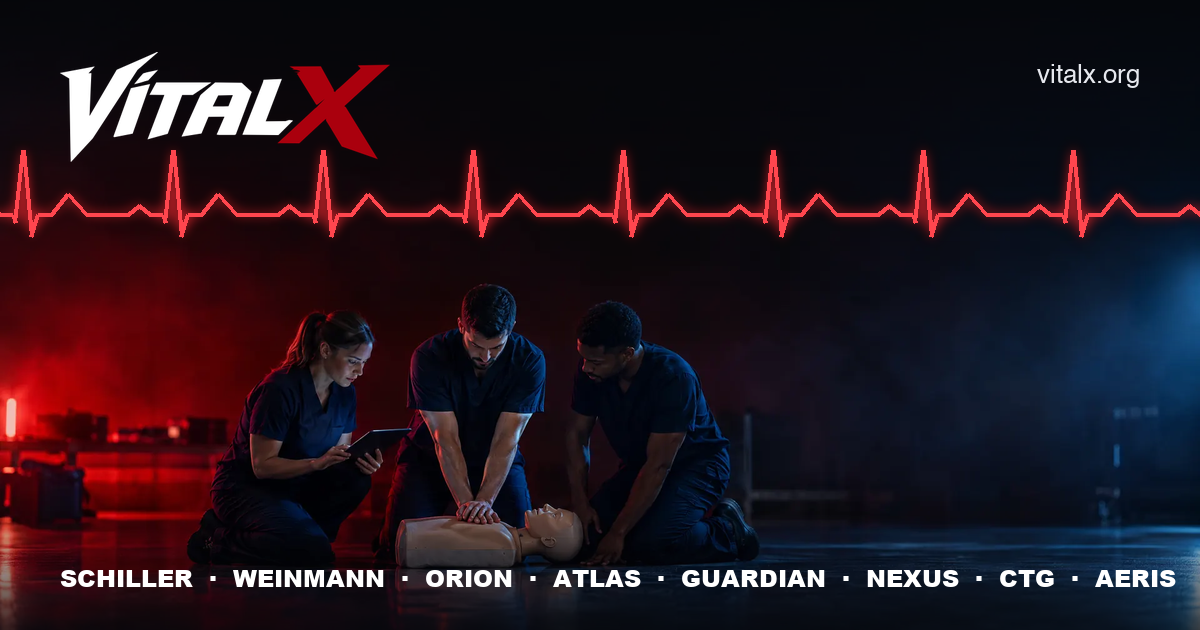
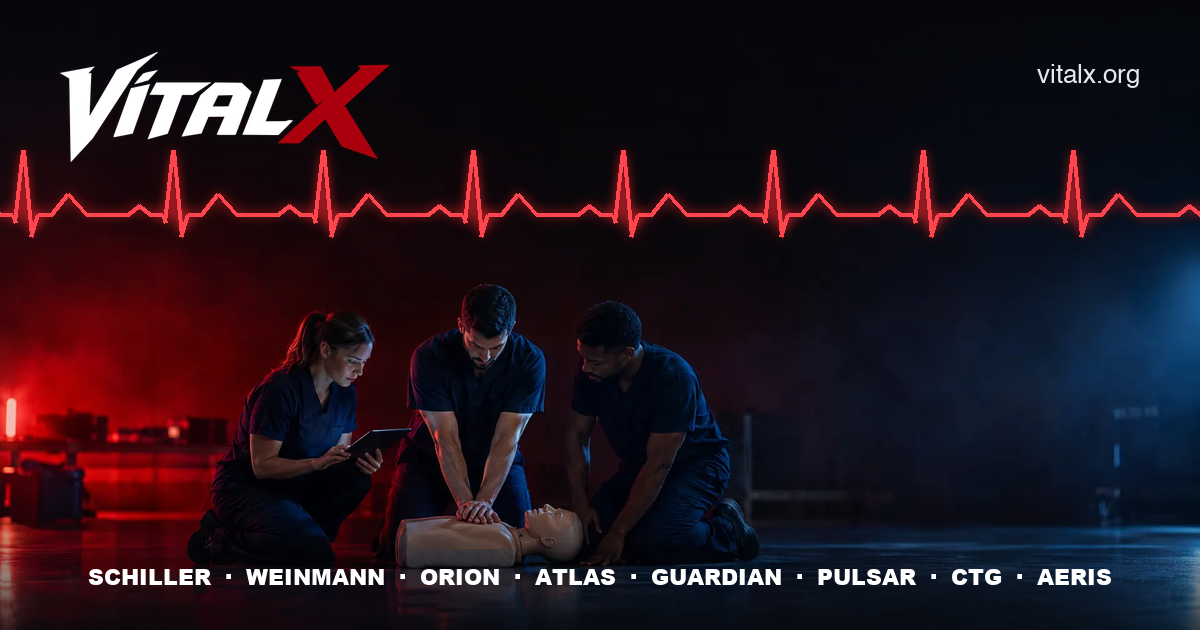
NEXUS retiré : 6 écrans VitalX (accueil, simulateurs, contact, CGV FR + image de partage)

Changed region(s): [[0.0308, 0.9048, 0.9867, 0.9349]]

diff --git a/site/index.html b/site/index.html
@@ -68,7 +68,7 @@
 </div>
 <figure class="hero-prod"><img src="/assets/img/hero-ultra-1200.webp" srcset="/assets/img/hero-ultra-800.webp 800w, /assets/img/hero-ultra-1200.webp 1200w, /assets/img/hero-ultra-1536.webp 1536w" sizes="(min-width:1024px) min(58vw, 860px), 100vw" width="1536" height="1024" alt="Pack VitalX Ultra — moniteur iPad Air 13 pouces dans sa housse et tablette formateur" fetchpriority="high" decoding="async"></figure>
 </div>
-</section><div class="mq" aria-hidden="true"><div class="mq-track"><ul><li>SCHILLER</li><li class=o>WEINMANN</li><li>ORION</li><li class=o>ATLAS</li><li>GUARDIAN</li><li class=o>NEXUS</li><li>PULSAR</li><li class=o>CTG</li><li>AERIS</li></ul><ul><li>SCHILLER</li><li class=o>WEINMANN</li><li>ORION</li><li class=o>ATLAS</li><li>GUARDIAN</li><li class=o>NEXUS</li><li>PULSAR</li><li class=o>CTG</li><li>AERIS</li></ul></div></div><section class="sec sec--tight t-dark" aria-label="Chiffres clés">
+</section><div class="mq" aria-hidden="true"><div class="mq-track"><ul><li>SCHILLER</li><li class=o>WEINMANN</li><li>ORION</li><li class=o>ATLAS</li><li>GUARDIAN</li><li class=o>PULSAR</li><li>CTG</li><li class=o>AERIS</li></ul><ul><li>SCHILLER</li><li class=o>WEINMANN</li><li>ORION</li><li class=o>ATLAS</li><li>GUARDIAN</li><li class=o>PULSAR</li><li>CTG</li><li class=o>AERIS</li></ul></div></div><section class="sec sec--tight t-dark" aria-label="Chiffres clés">
 <div class="wrap"><ul class="stats">
 <li class="rv"><b class="n"><em data-count="9">9</em></b><span>appareils reproduits à l'identique</span></li>
 <li class="rv rv-1"><b class="n"><em data-count="6">6</em></b><span>écrans VitalX maison</span></li>
@@ -116,10 +116,10 @@
 </div>
 </section><section class="sec t-dark" id="gamme">
 <div class="wrap">
-<div class="head"><p class="eb rv">Les appareils</p><h2 class="hx hx--m rv"><span>Neuf appareils,</span><span class="b">reproduits fidèlement.</span></h2><p class="lead rv rv-2">Et sept écrans VitalX qui n'appartiennent qu'à nous.</p></div>
+<div class="head"><p class="eb rv">Les appareils</p><h2 class="hx hx--m rv"><span>Neuf appareils,</span><span class="b">reproduits fidèlement.</span></h2><p class="lead rv rv-2">Et six écrans VitalX qui n'appartiennent qu'à nous.</p></div>
 <div class="brand"><div class="brand-h rv"><img src="/assets/img/logo-schiller.webp" width="319" height="96" alt="SCHILLER" loading="lazy"><p>6 appareils</p></div><div class="devs"><a class="dev" href="/simulateurs#defigard"><span class="dev-img"><img src="/assets/img/sch-defigard-chassis-800.webp" srcset="/assets/img/sch-defigard-chassis-480.webp 480w, /assets/img/sch-defigard-chassis-800.webp 800w, /assets/img/sch-defigard-chassis-1200.webp 1200w" sizes="(min-width:960px) 30vw, (min-width:560px) 46vw, 92vw" width="1200" height="822" alt="" loading="lazy" decoding="async"></span><span class="dev-tx"><span class="dev-name">DEFIGARD Touch 7</span><span class="dev-type">Défibrillateur-moniteur</span><span class="dev-go">Voir les écrans</span></span></a><a class="dev" href="/simulateurs#physiogard"><span class="dev-img"><img src="/assets/img/sch-physiogard-chassis-800.webp" srcset="/assets/img/sch-physiogard-chassis-480.webp 480w, /assets/img/sch-physiogard-chassis-800.webp 800w, /assets/img/sch-physiogard-chassis-1200.webp 1200w" sizes="(min-width:960px) 30vw, (min-width:560px) 46vw, 92vw" width="1200" height="827" alt="" loading="lazy" decoding="async"></span><span class="dev-tx"><span class="dev-name">PHYSIOGARD Touch 7</span><span class="dev-type">Moniteur patient</span><span class="dev-go">Voir les écrans</span></span></a><a class="dev" href="/simulateurs#argus"><span class="dev-img"><img src="/assets/img/sch-argus-chassis-800.webp" srcset="/assets/img/sch-argus-chassis-480.webp 480w, /assets/img/sch-argus-chassis-800.webp 800w, /assets/img/sch-argus-chassis-1200.webp 1200w" sizes="(min-width:960px) 30vw, (min-width:560px) 46vw, 92vw" width="1200" height="1219" alt="" loading="lazy" decoding="async"></span><span class="dev-tx"><span class="dev-name">ARGUS PRO LifeCare 3</span><span class="dev-type">Défibrillateur-moniteur portable</span><span class="dev-go">Voir les écrans</span></span></a><a class="dev" href="/simulateurs#hd7"><span class="dev-img"><img src="/assets/img/sch-hd7-chassis-800.webp" srcset="/assets/img/sch-hd7-chassis-480.webp 480w, /assets/img/sch-hd7-chassis-800.webp 800w, /assets/img/sch-hd7-chassis-1200.webp 1200w" sizes="(min-width:960px) 30vw, (min-width:560px) 46vw, 92vw" width="1200" height="1134" alt="" loading="lazy" decoding="async"></span><span class="dev-tx"><span class="dev-name">DEFIGARD HD-7</span><span class="dev-type">Défibrillateur-moniteur à molette</span><span class="dev-go">Voir les écrans</span></span></a><a class="dev" href="/simulateurs#maglife"><span class="dev-img"><img src="/assets/img/sch-maglife-chassis-800.webp" srcset="/assets/img/sch-maglife-chassis-480.webp 480w, /assets/img/sch-maglife-chassis-800.webp 800w, /assets/img/sch-maglife-chassis-1200.webp 1200w" sizes="(min-width:960px) 30vw, (min-width:560px) 46vw, 92vw" width="1200" height="1394" alt="" loading="lazy" decoding="async"></span><span class="dev-tx"><span class="dev-name">MAGLIFE RT-1</span><span class="dev-type">Moniteur compatible IRM</span><span class="dev-go">Voir les écrans</span></span></a><a class="dev" href="/simulateurs#magscreen"><span class="dev-img"><img src="/assets/img/sch-magscreen-chassis-800.webp" srcset="/assets/img/sch-magscreen-chassis-480.webp 480w, /assets/img/sch-magscreen-chassis-800.webp 800w, /assets/img/sch-magscreen-chassis-1200.webp 1200w" sizes="(min-width:960px) 30vw, (min-width:560px) 46vw, 92vw" width="1200" height="1053" alt="" loading="lazy" decoding="async"></span><span class="dev-tx"><span class="dev-name">MAGSCREEN RT-1</span><span class="dev-type">Écran déporté IRM</span><span class="dev-go">Voir les écrans</span></span></a></div></div>
 <div class="brand"><div class="brand-h rv"><img src="/assets/img/logo-weinmann.webp" width="327" height="96" alt="WEINMANN" loading="lazy"><p>3 appareils</p></div><div class="devs"><a class="dev" href="/simulateurs#meducore"><span class="dev-img"><img src="/assets/img/wei-meducore-chassis-2610-800.webp" srcset="/assets/img/wei-meducore-chassis-2610-480.webp 480w, /assets/img/wei-meducore-chassis-2610-800.webp 800w, /assets/img/wei-meducore-chassis-2610-1200.webp 1200w" sizes="(min-width:960px) 30vw, (min-width:560px) 46vw, 92vw" width="1200" height="684" alt="" loading="lazy" decoding="async"></span><span class="dev-tx"><span class="dev-name">MEDUCORE Standard²</span><span class="dev-type">Défibrillateur-moniteur</span><span class="dev-go">Voir les écrans</span></span></a><a class="dev" href="/simulateurs#medumat"><span class="dev-img"><img src="/assets/img/wei-medumat-chassis-2610-800.webp" srcset="/assets/img/wei-medumat-chassis-2610-480.webp 480w, /assets/img/wei-medumat-chassis-2610-800.webp 800w, /assets/img/wei-medumat-chassis-2610-1200.webp 1200w" sizes="(min-width:960px) 30vw, (min-width:560px) 46vw, 92vw" width="1200" height="874" alt="" loading="lazy" decoding="async"></span><span class="dev-tx"><span class="dev-name">MEDUMAT Standard²</span><span class="dev-type">Ventilateur</span><span class="dev-go">Voir les écrans</span></span></a><a class="dev" href="/simulateurs#meduvent"><span class="dev-img"><img src="/assets/img/wei-meduvent-chassis-2610-800.webp" srcset="/assets/img/wei-meduvent-chassis-2610-480.webp 480w, /assets/img/wei-meduvent-chassis-2610-800.webp 800w, /assets/img/wei-meduvent-chassis-2610-1200.webp 1200w" sizes="(min-width:960px) 30vw, (min-width:560px) 46vw, 92vw" width="1200" height="848" alt="" loading="lazy" decoding="async"></span><span class="dev-tx"><span class="dev-name">MEDUVENT Standard</span><span class="dev-type">Ventilateur</span><span class="dev-go">Voir les écrans</span></span></a></div></div>
-<div class="brand"><div class="brand-h rv"><span class="nm">VitalX</span><p>7 écrans maison</p></div><div class="devs"><a class="dev" href="/simulateurs#orion"><span class="dev-img"><img src="/assets/img/vx-orion-2610-1000.webp" srcset="/assets/img/vx-orion-2610-640.webp 640w, /assets/img/vx-orion-2610-1000.webp 1000w, /assets/img/vx-orion-2610-1500.webp 1500w" sizes="(min-width:960px) 30vw, (min-width:560px) 46vw, 92vw" width="1500" height="1125" alt="" loading="lazy" decoding="async"></span><span class="dev-tx"><span class="dev-name">ORION</span><span class="dev-type">Défibrillateur-moniteur tactile</span><span class="dev-go">Voir les écrans</span></span></a><a class="dev" href="/simulateurs#atlas"><span class="dev-img"><img src="/assets/img/vx-atlas-1000.webp" srcset="/assets/img/vx-atlas-640.webp 640w, /assets/img/vx-atlas-1000.webp 1000w, /assets/img/vx-atlas-1500.webp 1500w" sizes="(min-width:960px) 30vw, (min-width:560px) 46vw, 92vw" width="1500" height="1125" alt="" loading="lazy" decoding="async"></span><span class="dev-tx"><span class="dev-name">ATLAS</span><span class="dev-type">Défibrillateur-moniteur à grand écran</span><span class="dev-go">Voir les écrans</span></span></a><a class="dev" href="/simulateurs#guardian"><span class="dev-img"><img src="/assets/img/vx-guardian-1000.webp" srcset="/assets/img/vx-guardian-640.webp 640w, /assets/img/vx-guardian-1000.webp 1000w, /assets/img/vx-guardian-1500.webp 1500w" sizes="(min-width:960px) 30vw, (min-width:560px) 46vw, 92vw" width="1500" height="1125" alt="" loading="lazy" decoding="async"></span><span class="dev-tx"><span class="dev-name">GUARDIAN</span><span class="dev-type">Moniteur-défibrillateur tactile</span><span class="dev-go">Voir les écrans</span></span></a><a class="dev" href="/simulateurs#nexus"><span class="dev-img"><img src="/assets/img/vx-nexus-1000.webp" srcset="/assets/img/vx-nexus-640.webp 640w, /assets/img/vx-nexus-1000.webp 1000w, /assets/img/vx-nexus-1500.webp 1500w" sizes="(min-width:960px) 30vw, (min-width:560px) 46vw, 92vw" width="1500" height="1125" alt="" loading="lazy" decoding="async"></span><span class="dev-tx"><span class="dev-name">NEXUS</span><span class="dev-type">Scope d'accueil et d'orientation (IAO)</span><span class="dev-go">Voir les écrans</span></span></a><a class="dev" href="/simulateurs#pulsar"><span class="dev-img"><img src="/assets/img/vx-pulsar-1000.webp" srcset="/assets/img/vx-pulsar-640.webp 640w, /assets/img/vx-pulsar-1000.webp 1000w, /assets/img/vx-pulsar-1500.webp 1500w" sizes="(min-width:960px) 30vw, (min-width:560px) 46vw, 92vw" width="1500" height="1125" alt="" loading="lazy" decoding="async"></span><span class="dev-tx"><span class="dev-name">PULSAR</span><span class="dev-type">Moniteur de constantes pour le tri (IAO)</span><span class="dev-go">Voir les écrans</span></span></a><a class="dev" href="/simulateurs#ctg"><span class="dev-img"><img src="/assets/img/vx-ctg-1000.webp" srcset="/assets/img/vx-ctg-640.webp 640w, /assets/img/vx-ctg-1000.webp 1000w, /assets/img/vx-ctg-1500.webp 1500w" sizes="(min-width:960px) 30vw, (min-width:560px) 46vw, 92vw" width="1500" height="1125" alt="" loading="lazy" decoding="async"></span><span class="dev-tx"><span class="dev-name">CTG</span><span class="dev-type">Cardiotocographe</span><span class="dev-go">Voir les écrans</span></span></a><a class="dev" href="/simulateurs#aeris"><span class="dev-img"><img src="/assets/img/vx-aeris-1000.webp" srcset="/assets/img/vx-aeris-640.webp 640w, /assets/img/vx-aeris-1000.webp 1000w, /assets/img/vx-aeris-1500.webp 1500w" sizes="(min-width:960px) 30vw, (min-width:560px) 46vw, 92vw" width="1500" height="1125" alt="" loading="lazy" decoding="async"></span><span class="dev-tx"><span class="dev-name">AERIS</span><span class="dev-type">Ventilateur</span><span class="dev-go">Voir les écrans</span></span></a></div></div>
+<div class="brand"><div class="brand-h rv"><span class="nm">VitalX</span><p>6 écrans maison</p></div><div class="devs"><a class="dev" href="/simulateurs#orion"><span class="dev-img"><img src="/assets/img/vx-orion-2610-1000.webp" srcset="/assets/img/vx-orion-2610-640.webp 640w, /assets/img/vx-orion-2610-1000.webp 1000w, /assets/img/vx-orion-2610-1500.webp 1500w" sizes="(min-width:960px) 30vw, (min-width:560px) 46vw, 92vw" width="1500" height="1125" alt="" loading="lazy" decoding="async"></span><span class="dev-tx"><span class="dev-name">ORION</span><span class="dev-type">Défibrillateur-moniteur tactile</span><span class="dev-go">Voir les écrans</span></span></a><a class="dev" href="/simulateurs#atlas"><span class="dev-img"><img src="/assets/img/vx-atlas-1000.webp" srcset="/assets/img/vx-atlas-640.webp 640w, /assets/img/vx-atlas-1000.webp 1000w, /assets/img/vx-atlas-1500.webp 1500w" sizes="(min-width:960px) 30vw, (min-width:560px) 46vw, 92vw" width="1500" height="1125" alt="" loading="lazy" decoding="async"></span><span class="dev-tx"><span class="dev-name">ATLAS</span><span class="dev-type">Défibrillateur-moniteur à grand écran</span><span class="dev-go">Voir les écrans</span></span></a><a class="dev" href="/simulateurs#guardian"><span class="dev-img"><img src="/assets/img/vx-guardian-1000.webp" srcset="/assets/img/vx-guardian-640.webp 640w, /assets/img/vx-guardian-1000.webp 1000w, /assets/img/vx-guardian-1500.webp 1500w" sizes="(min-width:960px) 30vw, (min-width:560px) 46vw, 92vw" width="1500" height="1125" alt="" loading="lazy" decoding="async"></span><span class="dev-tx"><span class="dev-name">GUARDIAN</span><span class="dev-type">Moniteur-défibrillateur tactile</span><span class="dev-go">Voir les écrans</span></span></a><a class="dev" href="/simulateurs#pulsar"><span class="dev-img"><img src="/assets/img/vx-pulsar-1000.webp" srcset="/assets/img/vx-pulsar-640.webp 640w, /assets/img/vx-pulsar-1000.webp 1000w, /assets/img/vx-pulsar-1500.webp 1500w" sizes="(min-width:960px) 30vw, (min-width:560px) 46vw, 92vw" width="1500" height="1125" alt="" loading="lazy" decoding="async"></span><span class="dev-tx"><span class="dev-name">PULSAR</span><span class="dev-type">Moniteur de constantes pour le tri (IAO)</span><span class="dev-go">Voir les écrans</span></span></a><a class="dev" href="/simulateurs#ctg"><span class="dev-img"><img src="/assets/img/vx-ctg-1000.webp" srcset="/assets/img/vx-ctg-640.webp 640w, /assets/img/vx-ctg-1000.webp 1000w, /assets/img/vx-ctg-1500.webp 1500w" sizes="(min-width:960px) 30vw, (min-width:560px) 46vw, 92vw" width="1500" height="1125" alt="" loading="lazy" decoding="async"></span><span class="dev-tx"><span class="dev-name">CTG</span><span class="dev-type">Cardiotocographe</span><span class="dev-go">Voir les écrans</span></span></a><a class="dev" href="/simulateurs#aeris"><span class="dev-img"><img src="/assets/img/vx-aeris-1000.webp" srcset="/assets/img/vx-aeris-640.webp 640w, /assets/img/vx-aeris-1000.webp 1000w, /assets/img/vx-aeris-1500.webp 1500w" sizes="(min-width:960px) 30vw, (min-width:560px) 46vw, 92vw" width="1500" height="1125" alt="" loading="lazy" decoding="async"></span><span class="dev-tx"><span class="dev-name">AERIS</span><span class="dev-type">Ventilateur</span><span class="dev-go">Voir les écrans</span></span></a></div></div>
 <p class="cta"><a class="btn rv" href="/simulateurs">Toute la gamme<svg viewBox="0 0 24 24" fill="none" stroke="currentColor" stroke-width="2.4" stroke-linecap="round" stroke-linejoin="round" aria-hidden="true"><path d="M5 12h14M13 6l6 6-6 6"/></svg></a></p>
 </div></section><section class="sec t-dark2" id="configurations">
 <div class="wrap">

diff --git a/site/simulateurs.html b/site/simulateurs.html
@@ -4,7 +4,7 @@
 <meta charset="utf-8">
 <meta name="viewport" content="width=device-width, initial-scale=1">
 <title>Simulateurs — la gamme VitalX : SCHILLER, WEINMANN et écrans VitalX</title>
-<meta name="description" content="Neuf appareils SCHILLER et WEINMANN reproduits avec l'autorisation de leurs fabricants, sept écrans VitalX, sur iPad. Voyez chaque appareil, écran par écran.">
+<meta name="description" content="Neuf appareils SCHILLER et WEINMANN reproduits avec l'autorisation de leurs fabricants, six écrans VitalX, sur iPad. Voyez chaque appareil, écran par écran.">
 <meta name="robots" content="index, follow, max-image-preview:large, max-snippet:-1">
 <meta name="google-site-verification" content="ZLZ7OeVEVIpBnfLClCu3hTd3QEuCPHqIFuCaUgMzIJI">
 <link rel="canonical" href="https://vitalx.org/simulateurs">
@@ -18,14 +18,14 @@
 <meta property="og:type" content="website">
 <meta property="og:url" content="https://vitalx.org/simulateurs">
 <meta property="og:title" content="Simulateurs — la gamme VitalX : SCHILLER, WEINMANN et écrans VitalX">
-<meta property="og:description" content="Neuf appareils SCHILLER et WEINMANN reproduits avec l'autorisation de leurs fabricants, sept écrans VitalX, sur iPad. Voyez chaque appareil, écran par écran.">
+<meta property="og:description" content="Neuf appareils SCHILLER et WEINMANN reproduits avec l'autorisation de leurs fabricants, six écrans VitalX, sur iPad. Voyez chaque appareil, écran par écran.">
 <meta property="og:image" content="https://vitalx.org/og-image.png">
 <meta property="og:image:width" content="1200">
 <meta property="og:image:height" content="630">
 <meta property="og:image:alt" content="VitalX — simulateur de monitors et défibrillateurs sur iPad">
 <meta name="twitter:card" content="summary_large_image">
 <meta name="twitter:title" content="Simulateurs — la gamme VitalX : SCHILLER, WEINMANN et écrans VitalX">
-<meta name="twitter:description" content="Neuf appareils SCHILLER et WEINMANN reproduits avec l'autorisation de leurs fabricants, sept écrans VitalX, sur iPad. Voyez chaque appareil, écran par écran.">
+<meta name="twitter:description" content="Neuf appareils SCHILLER et WEINMANN reproduits avec l'autorisation de leurs fabricants, six écrans VitalX, sur iPad. Voyez chaque appareil, écran par écran.">
 <meta name="twitter:image" content="https://vitalx.org/og-image.png">
 <meta name="theme-color" content="#06070b">
 <link rel="icon" type="image/png" sizes="32x32" href="/favicon-32x32.png">
@@ -62,7 +62,7 @@
 <div>
 <p class="eb">La gamme</p>
 <h1 class="hx hx--xl"><span>Toute la gamme.</span><span class="b">Un seul iPad.</span></h1>
-<p class="lead">Neuf appareils SCHILLER et WEINMANN reproduits d'après leurs notices, avec l'autorisation de leurs fabricants, et sept écrans VitalX. Choisissez un appareil, voyez ses écrans.</p>
+<p class="lead">Neuf appareils SCHILLER et WEINMANN reproduits d'après leurs notices, avec l'autorisation de leurs fabricants, et six écrans VitalX. Choisissez un appareil, voyez ses écrans.</p>
 <div class="chips"><a class="chip" href="#schiller">SCHILLER</a><a class="chip" href="#weinmann">WEINMANN</a><a class="chip" href="#vitalx">Écrans VitalX</a><a class="chip" href="#configurations">Configurations</a></div>
 </div>
 <div class="ph-fig" style="margin:0"><figure class="tab "><img src="/assets/img/sch-defigard-ecg-1200.webp" srcset="/assets/img/sch-defigard-ecg-800.webp 800w, /assets/img/sch-defigard-ecg-1200.webp 1200w, /assets/img/sch-defigard-ecg-1600.webp 1600w" sizes="(min-width:960px) 48vw, 92vw" width="1600" height="1200" alt="DEFIGARD Touch 7 — ECG 12 dérivations" fetchpriority="high" decoding="async"></figure></div>
@@ -207,14 +207,13 @@
 <div class="wrap"><p class="legal-brand">Interfaces reproduites avec l'autorisation de Weinmann. Simulateur conçu et développé par VitalX. WEINMANN, MEDUCORE, MEDUMAT et MEDUVENT sont des marques de leurs propriétaires. VitalX est un outil de formation, pas un dispositif médical. Captures de l'application VitalX pour iPad&nbsp;; toutes les valeurs et mesures affichées sont simulées.</p></div>
 </section><section class="sec t-dark2" id="vitalx">
 <div class="wrap">
-<div class="head"><p class="eb rv">Écrans VitalX</p><h2 class="hx hx--m rv"><span>Sept écrans</span><span class="b">signés VitalX.</span></h2><p class="lead rv rv-2">Conçus et développés par VitalX, ils se pilotent depuis le poste formateur, comme les appareils reproduits.</p></div>
+<div class="head"><p class="eb rv">Écrans VitalX</p><h2 class="hx hx--m rv"><span>Six écrans</span><span class="b">signés VitalX.</span></h2><p class="lead rv rv-2">Conçus et développés par VitalX, ils se pilotent depuis le poste formateur, comme les appareils reproduits.</p></div>
 <div class="hs"><article class="hs-it rv rv-1" id="orion"><div class="im"><img src="/assets/img/vx-orion-2610-1000.webp" srcset="/assets/img/vx-orion-2610-640.webp 640w, /assets/img/vx-orion-2610-1000.webp 1000w, /assets/img/vx-orion-2610-1500.webp 1500w" sizes="(min-width:1000px) 30vw, (min-width:640px) 46vw, 92vw" width="1500" height="1125" alt="ORION — Défibrillateur-moniteur tactile" loading="lazy" decoding="async"></div>
 <div class="tx"><h3>ORION</h3><p>Défibrillateur-moniteur tactile</p><p style="color:#c3c8d4;font-size:15.5px;letter-spacing:0;text-transform:none;font-weight:400;margin:0">Écran tactile personnalisable (on touche une case ou une courbe pour la changer)&nbsp;: ECG jusqu'à 12 dérivations, SpO₂, CO₂, PNI, PA et température&nbsp;; touches DSA, manuel, analyse, charge et choc&nbsp;; stimulateur, RCP guidée, ECG imprimé annoté et tendances.</p></div></article><article class="hs-it rv rv-2" id="atlas"><div class="im"><img src="/assets/img/vx-atlas-1000.webp" srcset="/assets/img/vx-atlas-640.webp 640w, /assets/img/vx-atlas-1000.webp 1000w, /assets/img/vx-atlas-1500.webp 1500w" sizes="(min-width:1000px) 30vw, (min-width:640px) 46vw, 92vw" width="1500" height="1125" alt="ATLAS — Défibrillateur-moniteur à grand écran" loading="lazy" decoding="async"></div>
 <div class="tx"><h3>ATLAS</h3><p>Défibrillateur-moniteur à grand écran</p><p style="color:#c3c8d4;font-size:15.5px;letter-spacing:0;text-transform:none;font-weight:400;margin:0">Grand écran à gauche, colonne de commandes à droite&nbsp;: DAE ou manuel, énergie réglable, charge et gros bouton de choc, métronome RCP et archives ECG.</p></div></article><article class="hs-it rv rv-3" id="guardian"><div class="im"><img src="/assets/img/vx-guardian-1000.webp" srcset="/assets/img/vx-guardian-640.webp 640w, /assets/img/vx-guardian-1000.webp 1000w, /assets/img/vx-guardian-1500.webp 1500w" sizes="(min-width:1000px) 30vw, (min-width:640px) 46vw, 92vw" width="1500" height="1125" alt="GUARDIAN — Moniteur-défibrillateur tactile" loading="lazy" decoding="async"></div>
-<div class="tx"><h3>GUARDIAN</h3><p>Moniteur-défibrillateur tactile</p><p style="color:#c3c8d4;font-size:15.5px;letter-spacing:0;text-transform:none;font-weight:400;margin:0">DSA, défibrillation manuelle, courbes au choix (SpO₂, EtCO₂, pression invasive, FR) et schéma du patient.</p></div></article><article class="hs-it rv rv-1" id="nexus"><div class="im"><img src="/assets/img/vx-nexus-1000.webp" srcset="/assets/img/vx-nexus-640.webp 640w, /assets/img/vx-nexus-1000.webp 1000w, /assets/img/vx-nexus-1500.webp 1500w" sizes="(min-width:1000px) 30vw, (min-width:640px) 46vw, 92vw" width="1500" height="1125" alt="NEXUS — Scope d'accueil et d'orientation (IAO)" loading="lazy" decoding="async"></div>
-<div class="tx"><h3>NEXUS</h3><p>Scope d'accueil et d'orientation (IAO)</p><p style="color:#c3c8d4;font-size:15.5px;letter-spacing:0;text-transform:none;font-weight:400;margin:0">Constantes, score d'alerte précoce (EWS), fiche patient, ECG et impression&nbsp;: le poste de l'infirmier d'accueil et d'orientation.</p></div></article><article class="hs-it rv rv-2" id="pulsar"><div class="im"><img src="/assets/img/vx-pulsar-1000.webp" srcset="/assets/img/vx-pulsar-640.webp 640w, /assets/img/vx-pulsar-1000.webp 1000w, /assets/img/vx-pulsar-1500.webp 1500w" sizes="(min-width:1000px) 30vw, (min-width:640px) 46vw, 92vw" width="1500" height="1125" alt="PULSAR — Moniteur de constantes pour le tri (IAO)" loading="lazy" decoding="async"></div>
-<div class="tx"><h3>PULSAR</h3><p>Moniteur de constantes pour le tri (IAO)</p><p style="color:#c3c8d4;font-size:15.5px;letter-spacing:0;text-transform:none;font-weight:400;margin:0">Format portrait et écran tactile&nbsp;: SpO₂ et pléthysmographie, pouls, PNI, température, SpCO et SpMet, score NEWS2 et niveau de tri, alarmes hautes et basses simplifiées.</p></div></article><article class="hs-it rv rv-3" id="ctg"><div class="im"><img src="/assets/img/vx-ctg-1000.webp" srcset="/assets/img/vx-ctg-640.webp 640w, /assets/img/vx-ctg-1000.webp 1000w, /assets/img/vx-ctg-1500.webp 1500w" sizes="(min-width:1000px) 30vw, (min-width:640px) 46vw, 92vw" width="1500" height="1125" alt="CTG — Cardiotocographe" loading="lazy" decoding="async"></div>
-<div class="tx"><h3>CTG</h3><p>Cardiotocographe</p><p style="color:#c3c8d4;font-size:15.5px;letter-spacing:0;text-transform:none;font-weight:400;margin:0">Tracé du rythme cardiaque fœtal et des contractions, à lire selon les critères FIGO&nbsp;: le formateur choisit le scénario, l'élève interprète.</p></div></article><article class="hs-it rv rv-1" id="aeris"><div class="im"><img src="/assets/img/vx-aeris-1000.webp" srcset="/assets/img/vx-aeris-640.webp 640w, /assets/img/vx-aeris-1000.webp 1000w, /assets/img/vx-aeris-1500.webp 1500w" sizes="(min-width:1000px) 30vw, (min-width:640px) 46vw, 92vw" width="1500" height="1125" alt="AERIS — Ventilateur" loading="lazy" decoding="async"></div>
+<div class="tx"><h3>GUARDIAN</h3><p>Moniteur-défibrillateur tactile</p><p style="color:#c3c8d4;font-size:15.5px;letter-spacing:0;text-transform:none;font-weight:400;margin:0">DSA, défibrillation manuelle, courbes au choix (SpO₂, EtCO₂, pression invasive, FR) et schéma du patient.</p></div></article><article class="hs-it rv rv-1" id="pulsar"><div class="im"><img src="/assets/img/vx-pulsar-1000.webp" srcset="/assets/img/vx-pulsar-640.webp 640w, /assets/img/vx-pulsar-1000.webp 1000w, /assets/img/vx-pulsar-1500.webp 1500w" sizes="(min-width:1000px) 30vw, (min-width:640px) 46vw, 92vw" width="1500" height="1125" alt="PULSAR — Moniteur de constantes pour le tri (IAO)" loading="lazy" decoding="async"></div>
+<div class="tx"><h3>PULSAR</h3><p>Moniteur de constantes pour le tri (IAO)</p><p style="color:#c3c8d4;font-size:15.5px;letter-spacing:0;text-transform:none;font-weight:400;margin:0">Format portrait et écran tactile&nbsp;: SpO₂ et pléthysmographie, pouls, PNI, température, SpCO et SpMet, score NEWS2 et niveau de tri, alarmes hautes et basses simplifiées.</p></div></article><article class="hs-it rv rv-2" id="ctg"><div class="im"><img src="/assets/img/vx-ctg-1000.webp" srcset="/assets/img/vx-ctg-640.webp 640w, /assets/img/vx-ctg-1000.webp 1000w, /assets/img/vx-ctg-1500.webp 1500w" sizes="(min-width:1000px) 30vw, (min-width:640px) 46vw, 92vw" width="1500" height="1125" alt="CTG — Cardiotocographe" loading="lazy" decoding="async"></div>
+<div class="tx"><h3>CTG</h3><p>Cardiotocographe</p><p style="color:#c3c8d4;font-size:15.5px;letter-spacing:0;text-transform:none;font-weight:400;margin:0">Tracé du rythme cardiaque fœtal et des contractions, à lire selon les critères FIGO&nbsp;: le formateur choisit le scénario, l'élève interprète.</p></div></article><article class="hs-it rv rv-3" id="aeris"><div class="im"><img src="/assets/img/vx-aeris-1000.webp" srcset="/assets/img/vx-aeris-640.webp 640w, /assets/img/vx-aeris-1000.webp 1000w, /assets/img/vx-aeris-1500.webp 1500w" sizes="(min-width:1000px) 30vw, (min-width:640px) 46vw, 92vw" width="1500" height="1125" alt="AERIS — Ventilateur" loading="lazy" decoding="async"></div>
 <div class="tx"><h3>AERIS</h3><p>Ventilateur</p><p style="color:#c3c8d4;font-size:15.5px;letter-spacing:0;text-transform:none;font-weight:400;margin:0">Un respirateur 100 % VitalX&nbsp;: neuf modes (volume, pression, spontané, non invasif, RCP et haut débit), courbes, alarmes et poumon animé.</p></div></article></div>
 </div></section><section class="sec t-light" id="configurations">
 <div class="wrap">

diff --git a/site/contact.html b/site/contact.html
@@ -84,7 +84,7 @@
 <div class="fld"><label for="f-tel">Numéro de téléphone</label><input class="fi" id="f-tel" name="telephone" type="tel" autocomplete="tel"></div>
 <div class="fld"><label for="f-pays">Pays <span class="req" aria-hidden="true">*</span></label><select class="fi" id="f-pays" name="pays" required><option value="">Veuillez sélectionner</option><option value="France">France</option><option value="Belgique">Belgique</option><option value="Suisse">Suisse</option><option value="Luxembourg">Luxembourg</option><option value="Monaco">Monaco</option><option value="Canada">Canada</option><option value="Allemagne">Allemagne</option><option value="Espagne">Espagne</option><option value="Italie">Italie</option><option value="Pays-Bas">Pays-Bas</option><option value="Portugal">Portugal</option><option value="Royaume-Uni">Royaume-Uni</option><option value="Autre pays">Autre pays</option></select></div>
 </div>
-<div class="fld"><label for="f-if">Interface souhaitée</label><select class="fi" id="f-if" name="interface"><option value="">Peu importe / je ne sais pas encore</option><option value="Moniteur VitalX">Moniteur VitalX</option><option value="SCHILLER — DEFIGARD Touch 7">SCHILLER — DEFIGARD Touch 7</option><option value="SCHILLER — PHYSIOGARD Touch 7">SCHILLER — PHYSIOGARD Touch 7</option><option value="SCHILLER — ARGUS PRO LifeCare 3">SCHILLER — ARGUS PRO LifeCare 3</option><option value="SCHILLER — DEFIGARD HD-7">SCHILLER — DEFIGARD HD-7</option><option value="SCHILLER — MAGLIFE RT-1">SCHILLER — MAGLIFE RT-1</option><option value="SCHILLER — MAGSCREEN RT-1">SCHILLER — MAGSCREEN RT-1</option><option value="WEINMANN — MEDUCORE Standard²">WEINMANN — MEDUCORE Standard²</option><option value="WEINMANN — MEDUMAT Standard²">WEINMANN — MEDUMAT Standard²</option><option value="WEINMANN — MEDUVENT Standard">WEINMANN — MEDUVENT Standard</option><option value="Écrans VitalX">Écrans VitalX (ORION, ATLAS, GUARDIAN, NEXUS, PULSAR, CTG, AERIS)</option><option value="POD'S">POD'S (iPhone)</option><option value="Autre">Un autre appareil (précisez dans le message)</option></select></div>
+<div class="fld"><label for="f-if">Interface souhaitée</label><select class="fi" id="f-if" name="interface"><option value="">Peu importe / je ne sais pas encore</option><option value="Moniteur VitalX">Moniteur VitalX</option><option value="SCHILLER — DEFIGARD Touch 7">SCHILLER — DEFIGARD Touch 7</option><option value="SCHILLER — PHYSIOGARD Touch 7">SCHILLER — PHYSIOGARD Touch 7</option><option value="SCHILLER — ARGUS PRO LifeCare 3">SCHILLER — ARGUS PRO LifeCare 3</option><option value="SCHILLER — DEFIGARD HD-7">SCHILLER — DEFIGARD HD-7</option><option value="SCHILLER — MAGLIFE RT-1">SCHILLER — MAGLIFE RT-1</option><option value="SCHILLER — MAGSCREEN RT-1">SCHILLER — MAGSCREEN RT-1</option><option value="WEINMANN — MEDUCORE Standard²">WEINMANN — MEDUCORE Standard²</option><option value="WEINMANN — MEDUMAT Standard²">WEINMANN — MEDUMAT Standard²</option><option value="WEINMANN — MEDUVENT Standard">WEINMANN — MEDUVENT Standard</option><option value="Écrans VitalX">Écrans VitalX (ORION, ATLAS, GUARDIAN, PULSAR, CTG, AERIS)</option><option value="POD'S">POD'S (iPhone)</option><option value="Autre">Un autre appareil (précisez dans le message)</option></select></div>
 <div class="fld"><label for="f-msg">Message <span class="req" aria-hidden="true">*</span></label><textarea class="fi" id="f-msg" name="message" rows="5" required></textarea></div>
 <div class="fld"><span class="l">Protection de vos données</span><p class="fine">VitalX s'engage à protéger et à respecter votre vie privée. Nous utiliserons vos informations personnelles uniquement pour gérer votre compte et vous fournir les produits et services que vous nous avez demandés. Nous aimerions vous contacter ponctuellement au sujet de nos produits et services, ainsi que d'autres contenus susceptibles de vous intéresser. Si vous acceptez d'être contacté(e) à cette fin, veuillez cocher la case ci-dessous&nbsp;:</p>
 <label class="consent"><input type="checkbox" name="communications" value="oui"><span>J'accepte de recevoir d'autres communications de VitalX.</span></label>

diff --git a/site/cgv.html b/site/cgv.html
@@ -127,7 +127,7 @@
 </div>
 <div class="card">
 <h2><span class="num navy">10</span>Extensions logicielles</h2>
-<p>Les modules avancés (Mode Ultra&nbsp;: GUARDIAN, NEXUS, CTG, VENT) sont proposés en <strong>achat unique</strong>, sans abonnement ni renouvellement. L'activation s'effectue au moyen du code de votre scope, communiqué lors de la commande.</p>
+<p>Les modules avancés (Mode Ultra&nbsp;: GUARDIAN, CTG, VENT) sont proposés en <strong>achat unique</strong>, sans abonnement ni renouvellement. L'activation s'effectue au moyen du code de votre scope, communiqué lors de la commande.</p>
 <p>Si des fonctionnalités venaient à être proposées via achat intégré sur l'App Store, la facturation, la gestion et l'annulation seraient assurées par Apple depuis l'identifiant Apple du client.</p>
 </div>
 <div class="card">
